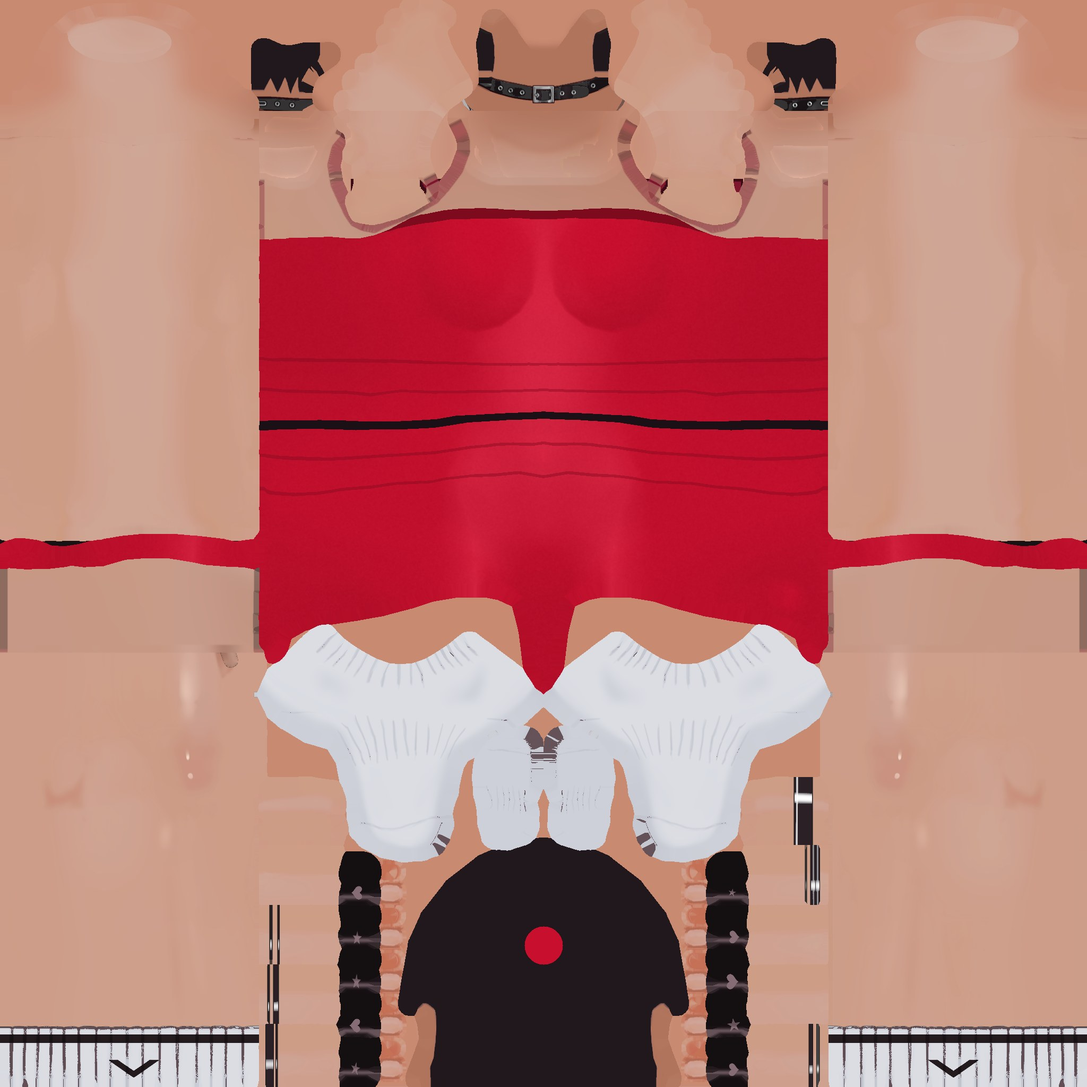
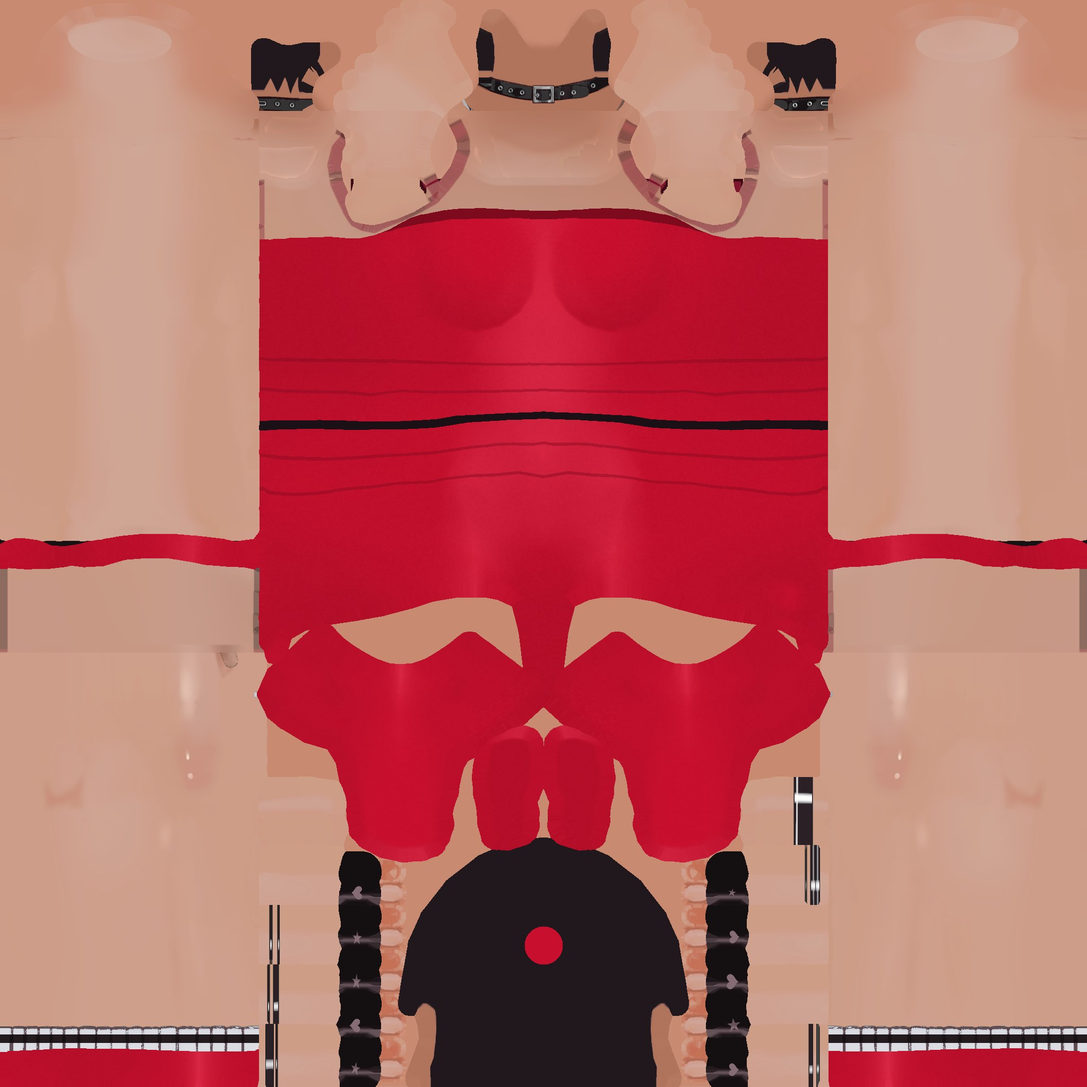
Mira wrist CCD IK + look-at; story quests teamwork/neon_king; per-outfit painted footwear and kick skirt hide

Changed region(s): [[0.2188, 0.5625, 0.7812, 0.8125], [0.75, 0.9375, 1.0, 1.0], [0.0, 0.9375, 0.25, 1.0]]

diff --git a/js/mira.js b/js/mira.js
@@ -68,6 +68,69 @@ export class Mira {
     }
   }
 
+  /** After Actor mixer + vrm.update — wrist snap IK and look-at so they aren't overwritten. */
+  lateUpdate() {
+    const A = this.actor, vrm = A.vrm, guy = this.assist;
+    if (this.state === 'hold' && guy && !guy.out && !guy.dropped) this._grabIK(guy);
+    if ((this.state === 'distract' || this.state === 'hold') && guy && vrm.lookAt) {
+      const hp = guy.headPos(new THREE.Vector3());
+      try { vrm.lookAt.lookAt(hp); } catch (e) {}
+    }
+  }
+
+  /** CCD IK: rotate joints so the tip approaches worldTarget (axis-agnostic). */
+  _ccd(bones, target, iters = 8) {
+    if (!bones.length) return;
+    const tip = bones[bones.length - 1];
+    const bonePos = new THREE.Vector3(), tipPos = new THREE.Vector3();
+    const toTip = new THREE.Vector3(), toTarget = new THREE.Vector3();
+    const q = new THREE.Quaternion(), pq = new THREE.Quaternion(), inv = new THREE.Quaternion();
+    for (let i = 0; i < iters; i++) {
+      for (let b = bones.length - 2; b >= 0; b--) {
+        const bone = bones[b]; if (!bone?.parent) continue;
+        bone.updateWorldMatrix(true, true);
+        tip.updateWorldMatrix(true, false);
+        bonePos.setFromMatrixPosition(bone.matrixWorld);
+        tipPos.setFromMatrixPosition(tip.matrixWorld);
+        toTip.copy(tipPos).sub(bonePos); if (toTip.lengthSq() < 1e-10) continue; toTip.normalize();
+        toTarget.copy(target).sub(bonePos); if (toTarget.lengthSq() < 1e-10) continue; toTarget.normalize();
+        q.setFromUnitVectors(toTip, toTarget);
+        bone.parent.getWorldQuaternion(pq);
+        inv.copy(pq).invert();
+        // world Δq → local: inv * q * pq, then premultiply onto bone
+        const local = inv.multiply(q).multiply(pq);
+        bone.quaternion.premultiply(local);
+      }
+    }
+  }
+
+  _grabIK(guy) {
+    const mh = this.actor.vrm.humanoid, gh = guy.actor.vrm.humanoid;
+    const chest = mh.getNormalizedBoneNode('chest') || mh.getNormalizedBoneNode('spine');
+    const cPos = chest ? chest.getWorldPosition(new THREE.Vector3()) : this.pos.clone().setY(this.pos.y + 1.15);
+    // 1) tug guy wrists behind toward Mira (reinforce pin)
+    for (const side of ['left', 'right']) {
+      const chain = ['UpperArm', 'LowerArm', 'Hand'].map((s) => gh.getNormalizedBoneNode(side + s)).filter(Boolean);
+      if (chain.length < 2) continue;
+      const pull = cPos.clone();
+      const lat = side === 'left' ? -0.14 : 0.14;
+      pull.x += Math.cos(guy.yaw) * lat; pull.z -= Math.sin(guy.yaw) * lat;
+      pull.y -= 0.05;
+      this._ccd(chain, pull, 6);
+    }
+    guy.actor.vrm.scene.updateMatrixWorld(true);
+    // 2) Mira hands reach those wrists
+    for (const side of ['left', 'right']) {
+      const gHand = gh.getNormalizedBoneNode(side + 'Hand');
+      const chain = ['UpperArm', 'LowerArm', 'Hand'].map((s) => mh.getNormalizedBoneNode(side + s)).filter(Boolean);
+      if (!gHand || chain.length < 2) continue;
+      const goal = gHand.getWorldPosition(new THREE.Vector3());
+      goal.lerp(cPos, 0.08); // slight overlap into the grip
+      this._ccd(chain, goal, 10);
+    }
+    this.actor.vrm.scene.updateMatrixWorld(true);
+  }
+
   _idleOrReturn(dt) {
     const A = this.actor, P = this.g.player;
     if (this.state === 'return') {
@@ -156,7 +219,7 @@ export class Mira {
 
   _beginHold(guy) {
     this.state = 'hold'; this.holdT = HOLD_DUR; this._pending = null;
-    guy.held = true; guy.heldBy = this;
+    guy.held = true; guy.heldBy = this; guy._wasHeld = true;
     guy.guardUntil = 0; guy.guardLv = 0; guy.guardAt = 1e9;
     if (guy.act === 'windup' || guy.act === 'punch' || guy.act === 'guard') guy.setAct(null);
     guy.actor.play('held', { fade: 0.1, restart: true });
@@ -280,6 +343,10 @@ export class Mira {
         box.textContent = 'Мира: «Один идеальный ап-кик или колено — и он падает. Скользом не считается. Не долби воздухом».';
         opts.innerHTML = ''; add('Поняла', () => this.render('hub')); add('Пока', () => this.close(), 'ghost');
       });
+      add('Про район', () => {
+        box.textContent = 'Мира: «Торговая — наша. Во дворе трусы и Стас. У «Неона» — Макс, мнит себя хозяином. На крыше Кирилл. Зови R/T в бою — держу крепко за запястья».';
+        opts.innerHTML = ''; add('Поняла', () => this.render('hub')); add('Пока', () => this.close(), 'ghost');
+      });
       add('Пока', () => this.close(), 'ghost');
     } else if (mode === 'quests') {
       const lines = MIRA.quests.map((q) => {
@@ -305,6 +372,8 @@ export class Mira {
   onWin(guy, grade) {
     save.questAdd('cleanup', 1);
     if (grade === 'perfect') save.questAdd('precision', 1);
+    if (guy._wasHeld || guy.held) save.questAdd('teamwork', 1);
+    if (guy.def?.id === 'maks') save.questAdd('neon_king', 1);
     if (this.assist === guy) { this._release(); this.state = 'return'; this.assist = null; }
   }
   onBuy() { save.questAdd('silk', 1); }

diff --git a/js/outfits.js b/js/outfits.js
@@ -26,17 +26,17 @@ export const OUTFITS = [
     desc: 'Укороченный бомбер поверх топа-трубы, розовая плиссе-мини и гольфы.' },
   { id: 'fishnet', ru: 'Сетка', style: 'Кожаные микрошорты + сетка', price: 260, rank: 1, tex: 'fishnet_street', gloss: 0.6, shoes: 0x141217, figure: 0.2,
     desc: 'Кожаные микрошорты с ремнём, колготки-сетка и кроп на тонких бретелях.' },
-  { id: 'beach', ru: 'Пляж', style: 'Бикини', price: 280, rank: 0, tex: 'beach', shoes: 0xfff1e6, figure: 0.5, tie: 0xff5d8f,
+  { id: 'beach', ru: 'Пляж', style: 'Бикини · сандалии', price: 280, rank: 0, tex: 'beach', shoes: 0xfff1e6, hideShoes: true, figure: 0.5, tie: 0xff5d8f,
     desc: 'Ярко-розовое бикини на завязках. Пляж где-то рядом, наверное.' },
-  { id: 'bodycon', ru: 'Мини-платье', style: 'Платье-бандо по фигуре', price: 340, rank: 1, tex: 'bodycon', gloss: 0.45, skirt: 0xc8102e, shoes: 0xc8102e, figure: 0.85,
+  { id: 'bodycon', ru: 'Мини-платье', style: 'Платье-бандо · каблуки', price: 340, rank: 1, tex: 'bodycon', gloss: 0.45, skirt: 0xc8102e, shoes: 0xc8102e, hideShoes: true, figure: 0.85,
     desc: 'Красное платье-бандо: лиф в обтяжку с драпировкой, тонкий пояс и короткая юбка. Фигура — главный аргумент.' },
-  { id: 'biker', ru: 'Байкерша', style: 'Кожаный халтер + шорты + ботфорты', price: 380, rank: 1, tex: 'biker', gloss: 0.8, shoes: 0x151213, figure: 0.3,
+  { id: 'biker', ru: 'Байкерша', style: 'Кожаный халтер + шорты + ботфорты', price: 380, rank: 1, tex: 'biker', gloss: 0.8, shoes: 0x151213, hideShoes: true, figure: 0.3,
     desc: 'Кожаный топ-халтер на молнии, шорты с ремнём и высокие сапоги.' },
-  { id: 'corset', ru: 'Корсет', style: 'Корсет + мини + чулки', price: 420, rank: 2, tex: 'corset', gloss: 0.5, skirt: 0x1b1820, shoes: 0x151116, figure: 0.7,
+  { id: 'corset', ru: 'Корсет', style: 'Корсет + мини + чулки · каблуки', price: 420, rank: 2, tex: 'corset', gloss: 0.5, skirt: 0x1b1820, shoes: 0x151116, hideShoes: true, figure: 0.7,
     desc: 'Винный корсет со шнуровкой, чёрная мини-юбка и чулки с кружевом.' },
-  { id: 'latex', ru: 'Латекс', style: 'Глянцевый кэтсьют', price: 520, rank: 2, tex: 'latex', gloss: 1.0, shoes: 0x0d0c10, figure: 1.0,
+  { id: 'latex', ru: 'Латекс', style: 'Глянцевый кэтсьют · каблуки', price: 520, rank: 2, tex: 'latex', gloss: 1.0, shoes: 0x0d0c10, hideShoes: true, figure: 1.0,
     desc: 'Чёрный латексный комбинезон с молнией. Блестит, скрипит, сидит как вторая кожа.' },
-  { id: 'champion', ru: 'Чемпионка', style: 'Боди с высоким вырезом + ботфорты', price: 650, rank: 3, tex: 'champion', gloss: 1.0, shoes: 0x121015, figure: 1.0,
+  { id: 'champion', ru: 'Чемпионка', style: 'Боди с высоким вырезом + ботфорты', price: 650, rank: 3, tex: 'champion', gloss: 1.0, shoes: 0x121015, hideShoes: true, figure: 1.0,
     desc: 'Чёрно-золотое глянцевое боди, длинные перчатки и сапоги выше колена. Для королевы района.' },
 ];
 // ids from v1 saves (recolour-era) -> current outfits
@@ -186,13 +186,18 @@ export async function applyOutfit(vrm, id) {
       mt.visible = !!o.skirt;
       if (o.skirt) { const t = (src) => (src && o.skirt !== true ? recolorTexture(src, o.skirt, { strength: 0.9 }) : src); mt.map = t(os.map); mt.shadeMultiplyTexture = t(os.shadeMultiplyTexture); }
     } else if (/Shoes_01_CLOTH/.test(n)) {
+      if (o.hideShoes) { mt.visible = false; continue; }
+      mt.visible = true;
       mt.map = o.shoes ? recolorTexture(os.map, o.shoes, { strength: 0.85 }) : os.map;
       mt.shadeMultiplyTexture = o.shoes && os.shadeMultiplyTexture ? recolorTexture(os.shadeMultiplyTexture, o.shoes, { strength: 0.85 }) : os.shadeMultiplyTexture;
     } else continue;
     mt.needsUpdate = true;
   }
-  // body shape: fuller figure for the hugging outfits
-  for (const m of meshes) { const k = m.morphTargetDictionary?.Figure; if (k !== undefined) m.morphTargetInfluences[k] = o.figure || 0; }
+  // hide shoe meshes entirely when footwear is painted on the body (sandals / heels / boots)
+  for (const m of meshes) {
+    if (/Shoes/i.test(m.name)) m.visible = !o.hideShoes;
+    const k = m.morphTargetDictionary?.Figure; if (k !== undefined) m.morphTargetInfluences[k] = o.figure || 0;
+  }
   vrm.userData = vrm.userData || {}; vrm.userData.outfit = o.id;
   return o;
 }

diff --git a/js/config.js b/js/config.js
@@ -113,7 +113,16 @@ export const MIRA = {
     'Мира: «Один точный ап-кик — и он уже не встаёт. Не надо молотить воздух».',
     'Мира: «В «Шёлке» загляни — тебе пойдёт что-нибудь дерзкое».',
     'Мира: «Я в порядке. Главное — не давай им подниматься».',
+    'Мира: «У клуба «Неон» Макс строит из себя хозяина. Навестим — потом».',
+    'Мира: «Если держу ему руки — бей сразу. Не стесняйся».',
   ],
+  // Area story beats shown once when Rusana enters (after meeting Mira)
+  plot: {
+    street: 'Мира шепчет: «Торговая — наша. Парни здесь уже знают твоё имя».',
+    park: 'Мира: «Во дворе двое трусов и один качок. Не дай Стасу геройствовать».',
+    club: 'Мира: ««Неон». Макс ждёт у входа. Один идеальный — и легенда рухнет».',
+    roof: 'Мира (по рации): «Крыша Кирилла. Не подходи к краю… ну, кроме него».',
+  },
   quests: [
     { id: 'precision', ru: 'Точный удар', goal: 1, desc: 'Свали одного парня идеальным ударом в пах.',
       done: 'Мира: «Вот это да… Он даже не встал. Так их».', reward: 60 },
@@ -121,5 +130,9 @@ export const MIRA = {
       done: 'Мира: «Ого. Тебе идёт. Парни будут отвлекаться — пользуйся».', reward: 40 },
     { id: 'cleanup', ru: 'Зачистка двора', goal: 3, desc: 'Приучи троих парней (сдались).',
       done: 'Мира: «Трое за вечер. Район уже шушукается. Горжусь».', reward: 120 },
+    { id: 'teamwork', ru: 'В четыре руки', goal: 1, desc: 'Позови Миру держать (R) и добей парня, пока она держит.',
+      done: 'Мира: «Видела? Вместе мы — закон. Ещё раз позовёшь — прибегу».', reward: 80 },
+    { id: 'neon_king', ru: 'Хозяин «Неона»', goal: 1, desc: 'Зайди к клубу «Неон» и приучи Макса.',
+      done: 'Мира: «Макс на асфальте. Клуб теперь кивает тебе, не ему».', reward: 100 },
   ],
 };

diff --git a/js/player.js b/js/player.js
@@ -66,6 +66,19 @@ export class Player {
     g.sfx.whoosh(this.move === 'knee' ? 0.8 : 1.1);
     if (this.move === 'finisher') g.startFinisher(this.target);
     this.combatT = 4;
+    // skirt mesh clips through raised thighs on high kicks — hide for the strike
+    this._skirtHide = null;
+    if (/kick|roundhouse|axe|heel|jumpknee|finisher/.test(this.move)) {
+      this._skirtHide = [];
+      this.actor.vrm.scene.traverse((ob) => {
+        if (ob.isMesh && /Bottoms_01/.test(ob.name) && ob.visible) { this._skirtHide.push(ob); ob.visible = false; }
+      });
+    }
+  }
+  _restoreSkirt() {
+    if (!this._skirtHide) return;
+    for (const ob of this._skirtHide) ob.visible = true;
+    this._skirtHide = null;
   }
   dodge() {
     if (this.dodgeCd > 0 || this.state === 'victory' || this.state === 'caught') return;
@@ -111,6 +124,7 @@ export class Player {
     this.t += dt; this.dodgeCd -= dt; this.iframes -= dt; this.combatT -= dt;
     let tv = new THREE.Vector3(), faceYaw = null, accel = PLAYER.accel;
     if (this.state === 'move') {
+      if (this._skirtHide) this._restoreSkirt();
       if (input.moveLen > 0.05) {
         const sp = input.run ? PLAYER.run : PLAYER.walk;
         tv.set(Math.sin(input.moveYaw), 0, Math.cos(input.moveYaw)).multiplyScalar(sp * Math.min(1, input.moveLen)); faceYaw = input.moveYaw;
@@ -133,8 +147,8 @@ export class Player {
         tv.set(dx / d * v, 0, dz / d * v); accel = 60;
       }
       if (!this.resolved && this.t >= def.contact) this.resolve();
-      if (this.queue && this.t >= def.contact + def.recover * 0.6) { const q = this.queue; this.queue = null; this.state = 'move'; this.begin(q); }
-      else if (this.t >= A.dur / Math.max(0.1, A.cur.timeScale) - 0.02) { this.state = 'move'; if (this.move === 'finisher') g.endFinisher(); }
+      if (this.queue && this.t >= def.contact + def.recover * 0.6) { const q = this.queue; this.queue = null; this._restoreSkirt(); this.state = 'move'; this.begin(q); }
+      else if (this.t >= A.dur / Math.max(0.1, A.cur.timeScale) - 0.02) { this._restoreSkirt(); this.state = 'move'; if (this.move === 'finisher') g.endFinisher(); }
     } else if (this.state === 'dodge') {
       const k = Math.max(0, 1 - this.t / PLAYER.dodgeTime);
       tv.copy(this.dodgeDir).multiplyScalar(PLAYER.dodgeDist / PLAYER.dodgeTime * 1.6 * k); accel = 60;

diff --git a/js/shots.js b/js/shots.js
@@ -81,6 +81,13 @@ export async function run(g, name) {
     if (Q.has('dist')) g.shop.orb.tDist = g.shop.orb.dist = +Q.get('dist');
     if (Q.has('pitch')) g.shop.orb.tPitch = g.shop.orb.pitch = +Q.get('pitch');
     if (name === 'outfit') { document.getElementById('shop').style.display = 'none'; g.shop.orb.tDist = g.shop.orb.dist = +(Q.get('dist') || 2.9); }
+    if (Q.get('view') === 'feet') {
+      document.getElementById('shop').style.display = 'none';
+      const foot = g.rusana.humanoid?.getNormalizedBoneNode?.('rightFoot') || g.rusana.vrm.humanoid.getNormalizedBoneNode('rightFoot');
+      const fp = foot.getWorldPosition(V(0,0,0));
+      g.shopMode = true; // keep shop lighting? actually leave orb
+      g.camOverride = { pos: V(fp.x + 0.55, fp.y + 0.35, fp.z + 0.85), look: V(fp.x, fp.y + 0.05, fp.z), fov: 32 };
+    }
     step(g, 40); await new Promise((r) => setTimeout(r, 300)); step(g, 2);
     info.outfit = g.rusana.vrm.userData.outfit; info.money = save.money; info.owned = save.owned; info.eq = save.outfit;
     info.vis = []; g.rusana.vrm.scene.traverse((o) => { if (o.isMesh) for (const m of [].concat(o.material)) if (/CLOTH/.test(m.name) && !m.isOutline) info.vis.push(m.name.replace('F00_', '') + ':' + m.visible); });
@@ -145,8 +152,10 @@ export async function run(g, name) {
     step(g, 20);
     info.assist = { state: g.mira.state, held: d.held, open: g.now < (d.openUntil || 0), guard: d.guard(), miraPos: g.mira.pos.toArray().map((v)=>+v.toFixed(2)) };
     if (mode === 'holdpose') {
-      const mid = d.pos.clone().add(g.mira.pos).multiplyScalar(0.5);
-      g.camOverride = { pos: V(mid.x - 0.2, 1.4, mid.z + 3.2), look: V(mid.x, 1.0, mid.z), fov: 40 }; step(g, 2);
+      // close on wrists so IK grab is visible
+      const wh = d.actor.vrm.humanoid.getNormalizedBoneNode('leftHand').getWorldPosition(V(0,0,0));
+      g.camOverride = { pos: V(wh.x - 1.1, wh.y + 0.25, wh.z + 1.6), look: V(wh.x, wh.y + 0.05, wh.z), fov: 36 }; step(g, 4);
+      info.ik = { miraState: g.mira.state, held: d.held };
     } else if (mode === 'ko' || mode === 'hold') {
       // kick while held → expect perfect/clean drop
       P.request('kick'); let k = 0; while (!P.resolved && k++ < 60) step(g, 1);

diff --git a/js/main.js b/js/main.js
@@ -215,7 +215,7 @@ class Game {
       this.updateCamera(rdt); this.fx.update(rdt, rdt); this.R.composer.render(); this.R.adapt(rdt); return;
     }
     if (this.dialogOpen) {
-      this.now += rdt; this.mira?.update(rdt); this.mira?.actor.update(rdt); this.rusana.update(rdt); this.world.update(this.now);
+      this.now += rdt; this.mira?.update(rdt); this.mira?.actor.update(rdt); this.mira?.lateUpdate?.(); this.rusana.update(rdt); this.world.update(this.now);
       this.sky.material.uniforms.time.value = this.now; this.R.grade.uniforms.time.value = this.now;
       this.updateCamera(rdt); this.fx.update(rdt, rdt); this.ui.update(rdt); this.R.composer.render(); this.R.adapt(rdt); return;
     }
@@ -235,14 +235,22 @@ class Game {
     }
     this.focusGuy = fg;
     if (this.comboT > 0 && (this.comboT -= dt) <= 0) this.breakCombo();
-    this.rusana.update(pdt); for (const g of this.guys) g.actor.update(dt); this.mira?.update(dt); this.mira?.actor.update(dt);
+    this.rusana.update(pdt); for (const g of this.guys) g.actor.update(dt); this.mira?.update(dt); this.mira?.actor.update(dt); this.mira?.lateUpdate?.();
     this.world.update(this.now); this.sky.material.uniforms.time.value = this.now; this.R.grade.uniforms.time.value = this.now;
     this.lights.follow(this.player.pos);
     this.updateCamera(rdt);
     this.fx.update(dt, rdt); this.ui.update(rdt);
     this.checkBoutique();
     const ar = this.world.areaAt(this.player.pos);
-    if (ar && ar !== this.area && this.started) { this.area = ar; this.ui.toast(this.world.areas[ar].name); }
+    if (ar && ar !== this.area && this.started) {
+      this.area = ar; this.ui.toast(this.world.areas[ar].name);
+      // district plot beats (once per area after meeting Mira)
+      const beat = this.mira?.def?.plot?.[ar];
+      if (beat && save.miraMet) {
+        this._plotShown = this._plotShown || {};
+        if (!this._plotShown[ar]) { this._plotShown[ar] = true; this.ui.toast('Мира', beat); this.ui.log(beat); }
+      }
+    }
     this.R.composer.render(); this.R.adapt(rdt);
   }
 }

diff --git a/js/shop.js b/js/shop.js
@@ -199,6 +199,7 @@ export class Shop {
     if ((o.figure || 0) >= 0.5) tags.push('<span class="tg fig">✦ Подчёркивает фигуру</span>');
     if (o.gloss >= 0.5) tags.push('<span class="tg">Глянец</span>');
     if (o.skirt) tags.push('<span class="tg">Юбка</span>'); if (o.jacket) tags.push('<span class="tg">Куртка</span>');
+    if (o.hideShoes) tags.push('<span class="tg">Своя обувь</span>');
     if (o.rank) tags.push(`<span class="tg rk">Ранг «${RANKS[o.rank][1]}»</span>`);
     E.tags.innerHTML = tags.join('');
     const own = save.has(o.id), eq = save.outfit === o.id, lock = !own && save.locked(o.id), poor = !own && save.money < o.price;

diff --git a/tools/outfits/paint_outfits.py b/tools/outfits/paint_outfits.py
@@ -119,6 +119,30 @@ def bottoms_region(y_waist, leg_len_front, leg_len_back=None, highcut=0.0):
     return BODY_OK & ~ARMS & ~isp(LLEG) & (Y < y_waist) & (Y > hem)
 def leg_region(y_top, y_bot=ANKLE):
     return LEG & (Y < y_top) & (Y > y_bot)
+
+def footwear_sandals(p, col=0xfff1e6, strap=0xff5d8f):
+    """Flat sandals: pale sole covering FOOT + pink straps (beach). Visible once Shoes mesh is hidden."""
+    foot = isp(FOOT)
+    # full foot coverage so default sock/sneaker paint is gone
+    p.fill(foot, col, grain=3)
+    # darker sole underside
+    p.fill(foot & (Y < 0.04), 0xe8d4c4, grain=2)
+    # toe bar + ankle strap + side connector
+    p.fill(foot & (np.abs(Y - 0.055) < 0.01) & (Z < 0.025), strap, grain=2)
+    p.fill(foot & (np.abs(Y - 0.095) < 0.008), strap, grain=2)
+    p.line(LEG & (Y < ANKLE + 0.025) & (Y > ANKLE - 0.005), strap)
+
+def footwear_heels(p, col=0x151116, shaft=0.0, gloss=0.75):
+    """Stiletto / pump painted on FOOT (+ optional short shaft up ankle)."""
+    foot = isp(FOOT)
+    # shoe body covering foot top + sole
+    shoe = foot | (LEG & (Y < ANKLE + 0.01 + shaft) & (Y > 0.02))
+    p.fill(shoe, col, gloss=gloss, shine=0.12, grain=2)
+    # darker sole edge
+    p.line(foot & (Y < 0.035) & (np.abs(NZ) > 0.3), max(0, col - 0x101010) if isinstance(col, int) else col)
+    # thin heel bar suggestion on back of foot
+    p.fill(foot & (Z > 0.01) & (Y < 0.08) & (AX < 0.03), col, gloss=gloss)
+
 def fishnet(v, cell=0.011, width=0.0013, col=(18, 16, 20)):
     u1 = (ARC + Y) / cell; u2 = (ARC - Y) / cell
     d = np.minimum(np.abs(u1 - np.round(u1)), np.abs(u2 - np.round(u2))) * cell
@@ -199,7 +223,8 @@ def beach():
     p.fill(bot, 0xff5d8f, grain=4)
     p.line(band(bot, HIPY - 0.02 - 0.004, 0.004), 0xffd1df)
     p.line(isp(HIPS, SPINE) & band(Y > 0, HIPY - 0.023, 0.0035) & (Y > 0), 0xff5d8f)      # side ties
-    return p, dict(shoes=0xfff1e6, tie=0xff5d8f)
+    footwear_sandals(p, 0xfff1e6, 0xff5d8f)
+    return p, dict(shoes=0xfff1e6, tie=0xff5d8f, hideShoes=True)
 
 @outfit
 def bodycon():
@@ -210,7 +235,8 @@ def bodycon():
     for dy in np.arange(0.0, 0.2, 0.03): p.mix(band(dress & TORSO, WAIST - 0.06 + dy, 0.0015) & (Y < UNDER - 0.01), 0x8e0b22, 0.5)   # ruching
     p.line(band(dress, BUST + 0.045 - 0.004, 0.004) & (fb < 0.5), 0x7e0a1d)
     p.line(band(dress, WAIST, 0.004), 0x1a1016, gloss=0.8)          # thin black belt
-    return p, dict(shoes=0xc8102e, tie=0xc8102e, figure=0.85, meshes={'skirt': 0xc8102e})
+    footwear_heels(p, 0xc8102e, shaft=0.02, gloss=0.55)
+    return p, dict(shoes=0xc8102e, tie=0xc8102e, figure=0.85, hideShoes=True, meshes={'skirt': 0xc8102e})
 
 @outfit
 def biker():
@@ -225,7 +251,7 @@ def biker():
     p.fill(boots, 0x151213, gloss=0.7, shine=0.15)
     p.line(boots & band(Y > 0, KNEE + 0.125, 0.005), 0x3a3336)
     p.line(boots & (np.abs(LANG) < 0.035) & (Y > ANKLE), 0xb9b9c0, gloss=1)   # side zips
-    return p, dict(shoes=0x151213, tie=0x1b1718)
+    return p, dict(shoes=0x151213, tie=0x1b1718, hideShoes=True)
 
 @outfit
 def corset():
@@ -245,7 +271,8 @@ def corset():
     p.fill(lt, 0x151116, grain=6)
     p.line(lt & (np.abs(((ARC / 0.012) % 1) - 0.5) < 0.18) & (Y > KNEE + 0.145), 0x3d3440)   # lace scallops
     p.line(ULEG & (np.abs(LANG + math.pi / 2) < 0.03) & (Y > KNEE + 0.15) & (Y < HIPY), 0x16121a)  # garter straps
-    return p, dict(shoes=0x151116, tie=0x5a0d1f, figure=0.7, meshes={'skirt': 0x1b1820})
+    footwear_heels(p, 0x151116, shaft=0.025, gloss=0.7)
+    return p, dict(shoes=0x151116, tie=0x5a0d1f, figure=0.7, hideShoes=True, meshes={'skirt': 0x1b1820})
 
 @outfit
 def latex():
@@ -256,7 +283,8 @@ def latex():
     p.line(suit & (np.abs(X) < 0.0028) & (fb < 0.25) & (Y > WAIST - 0.04) & (Y < NECK), 0xa7a7b2, gloss=1)
     p.line(suit & (np.abs(X) < 0.006) & (fb < 0.25) & (np.abs(Y - (WAIST - 0.045)) < 0.008), 0xc9c9d2, gloss=1)   # zip pull   # front zip
     p.line(band(suit, NECK - 0.012, 0.005), 0x2a2830, gloss=0.6)
-    return p, dict(shoes=0x0d0c10, tie=0x0d0c10, figure=1.0)
+    footwear_heels(p, 0x0d0c10, shaft=0.03, gloss=1.0)
+    return p, dict(shoes=0x0d0c10, tie=0x0d0c10, figure=1.0, hideShoes=True)
 
 @outfit
 def champion():
@@ -273,7 +301,7 @@ def champion():
     gl = isp(LARM) & (AX > 0.36)
     p.fill(gl, 0x121015, gloss=0.9, shine=0.15)
     p.line(gl & (np.abs(AX - 0.365) < 0.004), gold, gloss=1)
-    return p, dict(shoes=0x121015, tie=gold, figure=1.0)
+    return p, dict(shoes=0x121015, tie=gold, figure=1.0, hideShoes=True)
 
 for name, fn in OUT.items():
     if only and name not in only: continue
